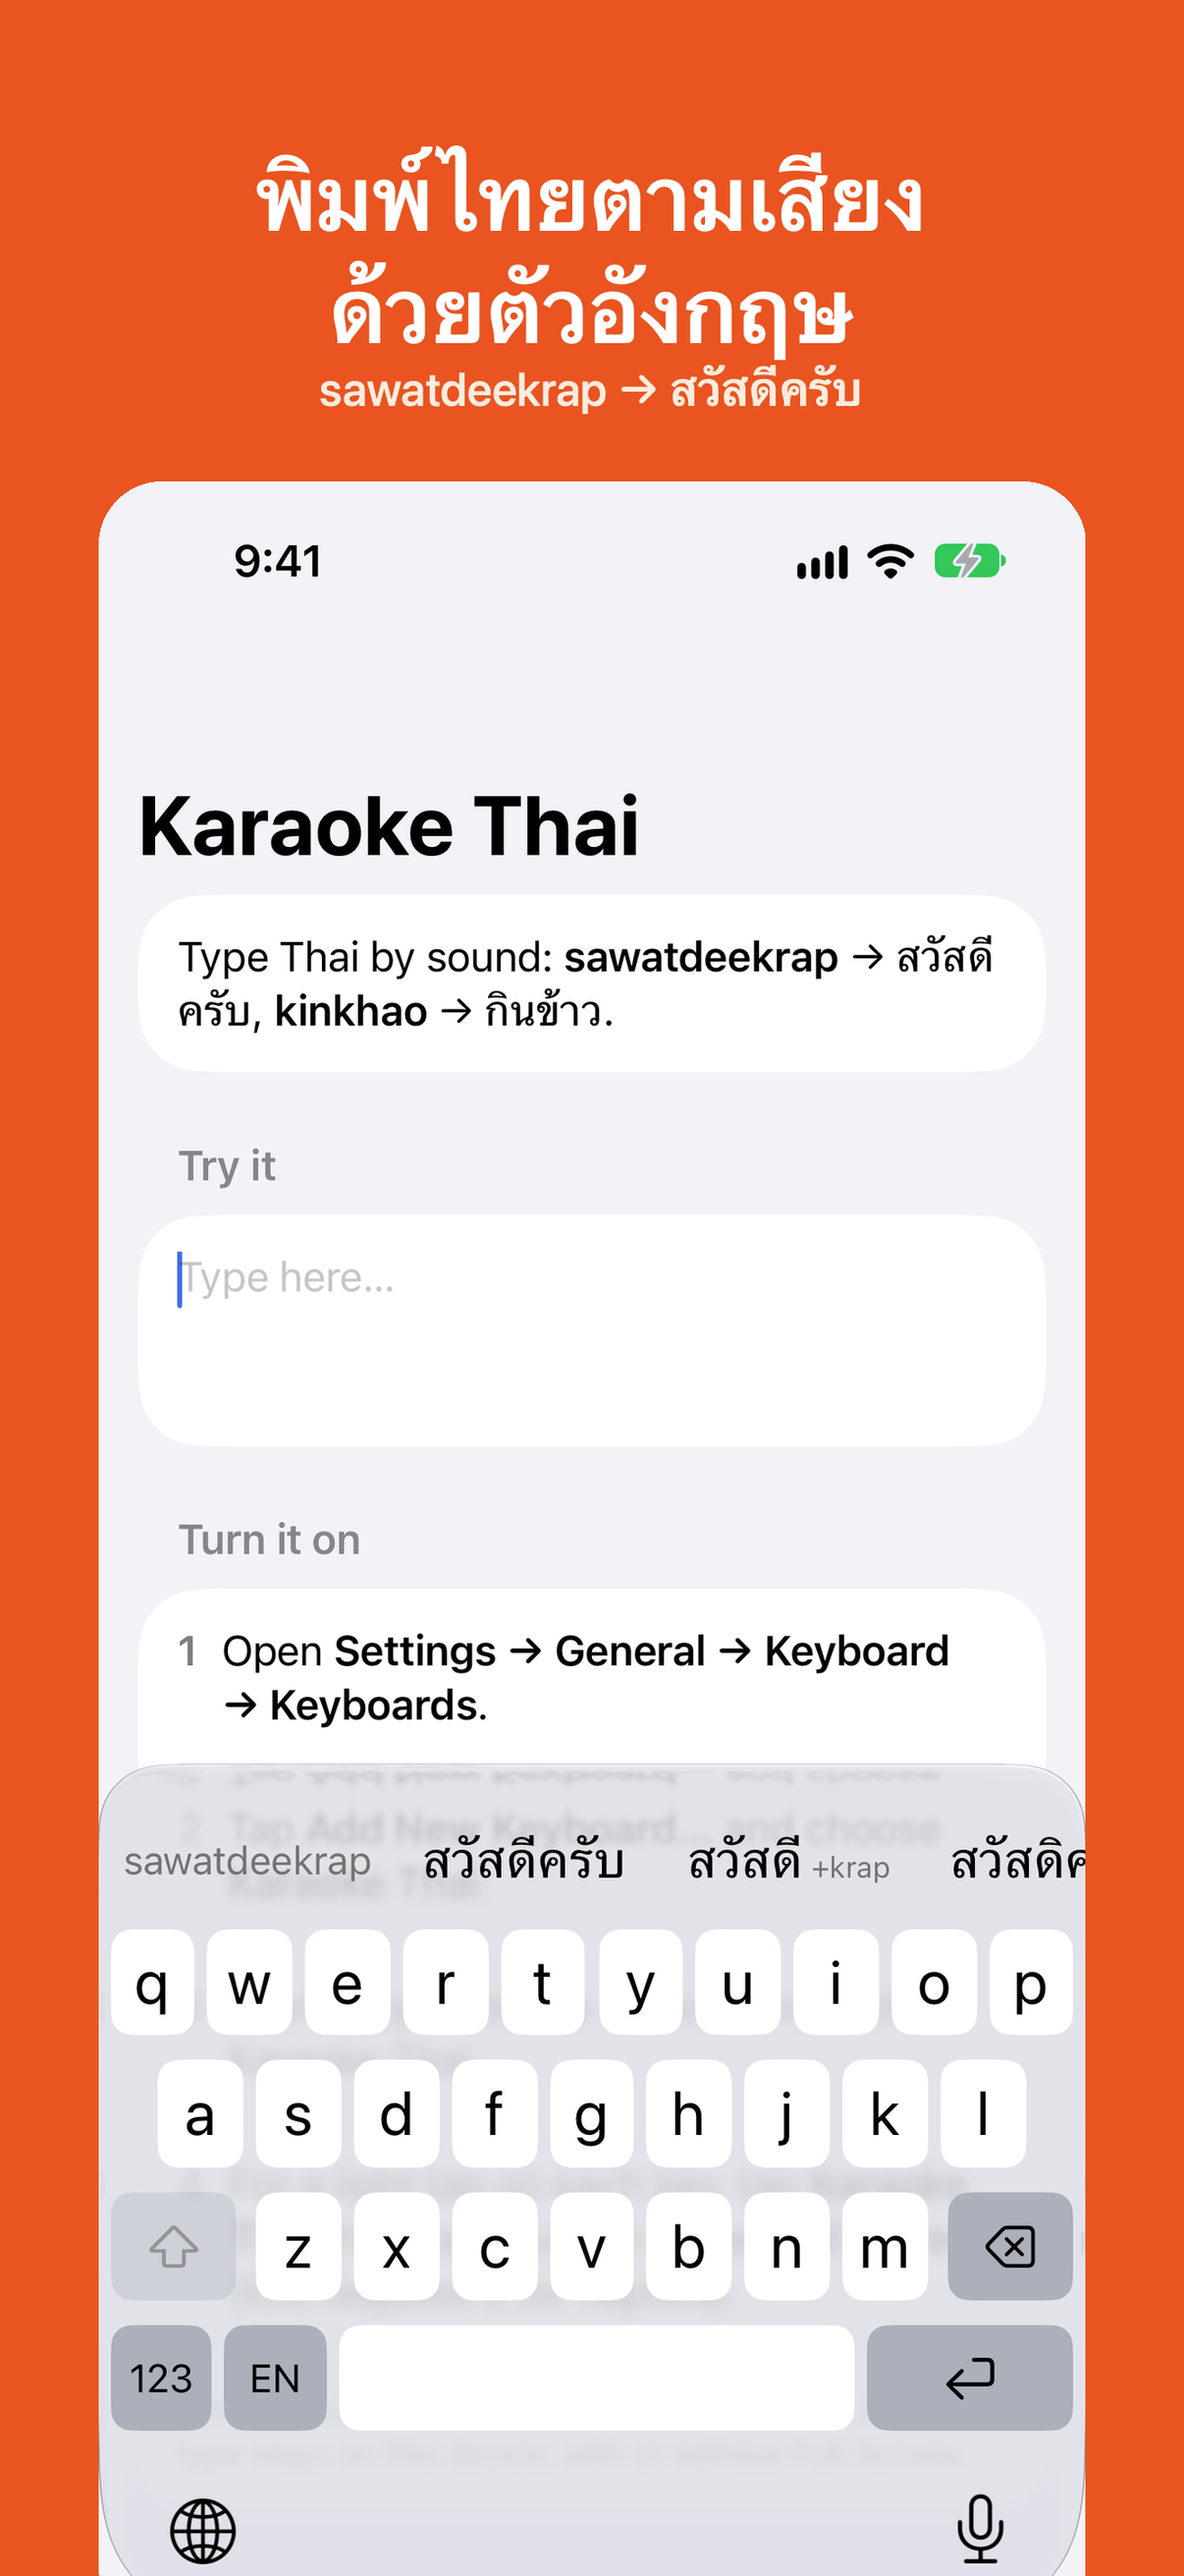
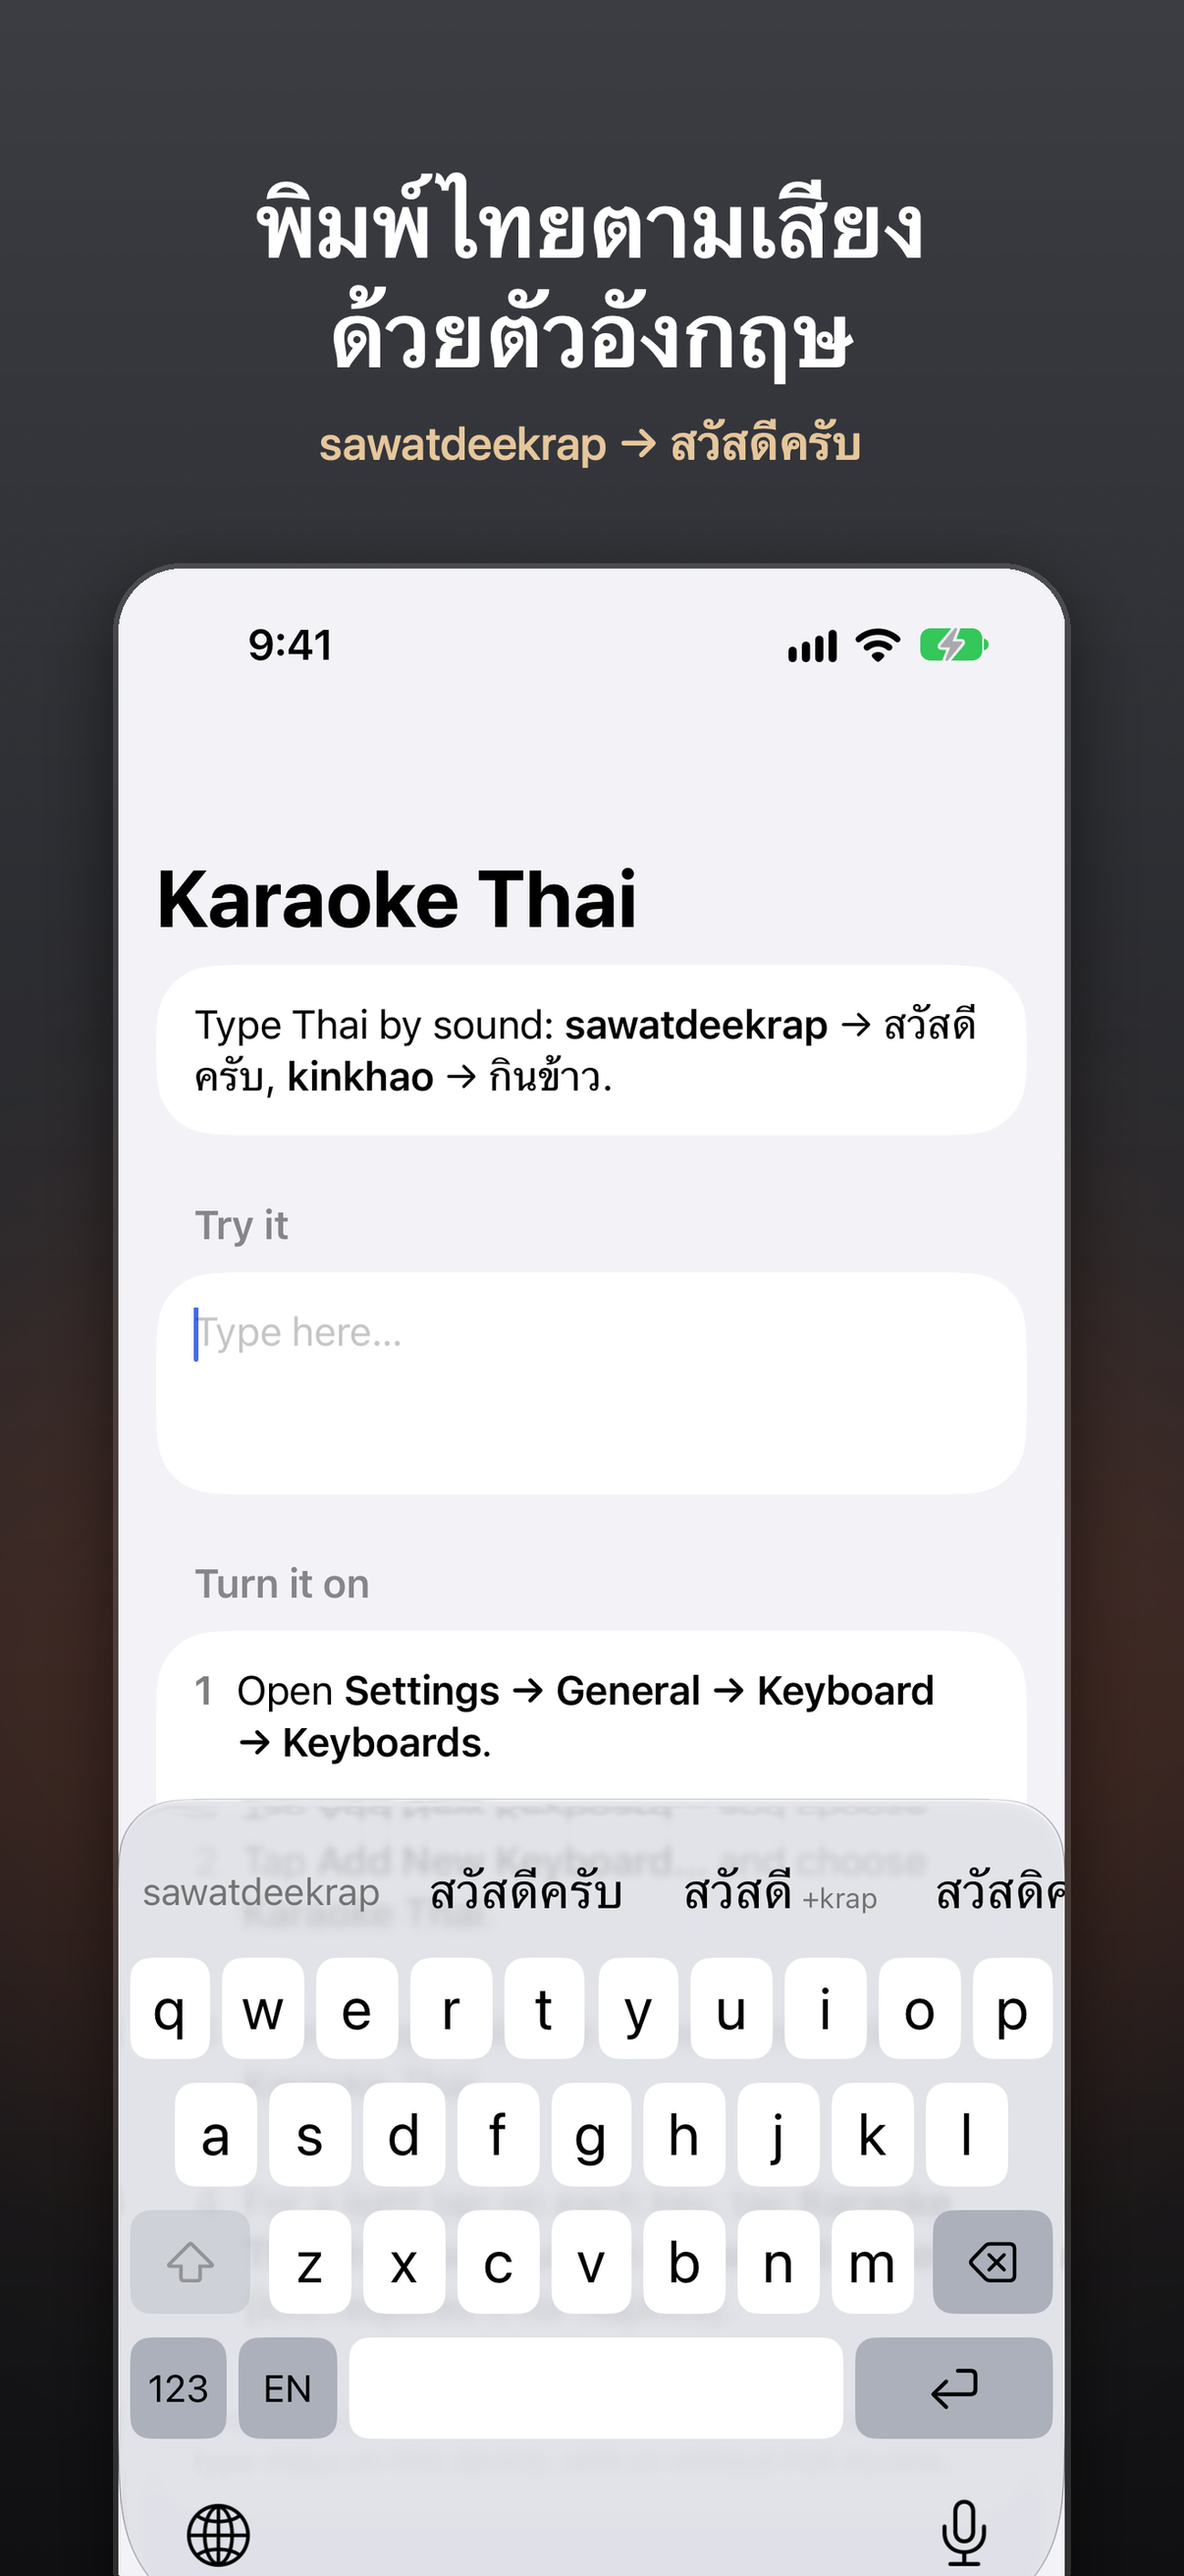
Store screenshots: graphite theme instead of orange
Dark, low-saturation graphite gradient with a faint warm glow in the icon's
orange behind the phone, white headlines, champagne-gold sublines, a soft
shadow under the phone and more room between headline and subline. Matches
the demo clip. Other looks stay available: caption_shots.py [graphite|
midnight|porcelain|orange]. The 6.3" iPhone set is now written by the script.

diff --git a/tools/caption_shots.py b/tools/caption_shots.py
@@ -1,20 +1,38 @@
 """Captioned App Store screenshots from the raw ones in ios/appstore/shots.
 
-Each shot gets a coloured band with a headline (App Store search reads screenshot text, so
-the headlines carry the main search words) above the raw screenshot in a rounded frame.
+Each shot gets a headline (App Store search reads screenshot text, so the headlines carry the
+main search words) above the raw screenshot in a rounded frame with a soft shadow.
 
-    python3 tools/caption_shots.py   ->  ios/appstore/shots/captioned/{en,th}/*.png
+The look is "graphite": a dark, low-saturation grey gradient (dark, muted colours read as
+premium and sophisticated; bright saturated ones as cheap and loud), a faint warm glow in the
+icon's orange behind the phone so the brand colour stays, white headlines and a champagne-gold
+subline (gold reads as quality, and in Thailand as royalty and temples). It matches the demo clip.
+Pure black and purple are avoided: both are mourning colours in Thailand.
+
+    python3 tools/caption_shots.py [theme]   ->  ios/appstore/shots/captioned/{en,th}/*.png
 """
 import subprocess
 import tempfile
 from pathlib import Path
-from PIL import Image, ImageDraw, ImageFont
+import sys
+from PIL import Image, ImageDraw, ImageFilter
 
 ROOT = Path(__file__).resolve().parent.parent
 SHOTS = ROOT / "ios/appstore/shots"
 OUT = SHOTS / "captioned"
 
-BG = (233, 84, 32)      # same orange as the app icon
+# top and bottom of the background gradient, the glow behind the phone, headline, subline
+THEMES = {
+    "graphite": dict(top=(58, 60, 66), bottom=(14, 14, 16), glow=(233, 84, 32), glow_alpha=52,
+                     head="FFFFFF", sub="E6C79C"),
+    "midnight": dict(top=(30, 40, 66), bottom=(8, 11, 22), glow=(214, 168, 96), glow_alpha=55,
+                     head="FFFFFF", sub="E6C79C"),
+    "porcelain": dict(top=(250, 248, 244), bottom=(232, 228, 220), glow=(233, 84, 32), glow_alpha=40,
+                      head="1C1C1E", sub="9A6B3A"),
+    "orange": dict(top=(233, 84, 32), bottom=(233, 84, 32), glow=(233, 84, 32), glow_alpha=0,
+                   head="FFFFFF", sub="FFECDE"),
+}
+THEME = THEMES["graphite"]
 RENDER = ROOT / "tools/render_text.swift"
 BIN = Path(tempfile.gettempdir()) / "karaoke_render_text"
 
@@ -53,21 +71,42 @@ def rounded(img, radius):
     return out
 
 
+def background(size, top_y):
+    """Vertical gradient, a soft glow behind the phone, and a little grain against banding."""
+    W, H = size
+    t = THEME
+    grad = Image.linear_gradient("L").resize((W, H))
+    canvas = Image.composite(Image.new("RGB", size, t["bottom"]), Image.new("RGB", size, t["top"]), grad)
+    if t["glow_alpha"]:
+        glow = Image.new("L", (W, H), 0)
+        r = int(W * 0.5)
+        cx, cy = W // 2, top_y + int((H - top_y) * 0.55)  # behind the phone: a halo at its edges
+        ImageDraw.Draw(glow).ellipse([cx - r, cy - r, cx + r, cy + r], fill=t["glow_alpha"])
+        glow = glow.filter(ImageFilter.GaussianBlur(W * 0.12))
+        canvas = Image.composite(Image.new("RGB", size, t["glow"]), canvas, glow)
+    noise = Image.effect_noise((W, H), 6).convert("RGB")
+    return Image.blend(canvas, noise, 0.025)
+
+
 def make(raw, size, head, sub):
     W, H = size
-    canvas = Image.new("RGB", size, BG)
     scale = W / 1320
     head_size, sub_size = int(100 * scale), int(52 * scale)
     if W > 1500:  # iPad: wider canvas, same visual weight
         head_size, sub_size = int(66 * scale), int(36 * scale)
-    y = int(120 * scale)
-    for line in head.split("\n"):
-        img = text_image(line, head_size, True, "FFFFFF")
-        canvas.paste(img, ((W - img.width) // 2, y), img)
-        y += int(head_size * 1.25)
-    img = text_image(sub, sub_size, False, "FFECDE")
-    canvas.paste(img, ((W - img.width) // 2, y + int(10 * scale)), img)
-    top = y + int(sub_size * 3.2)
+    lines = [text_image(line, head_size, True, THEME["head"]) for line in head.split("\n")]
+    sub_img = text_image(sub, sub_size, False, THEME["sub"])
+    y = int(150 * scale)
+    heights = []
+    for img in lines:
+        heights.append(y)
+        y += int(head_size * 1.22)
+    sub_y = y + int(46 * scale)
+    top = sub_y + sub_img.height + int(90 * scale)
+    canvas = background(size, top)
+    for img, hy in zip(lines, heights):
+        canvas.paste(img, ((W - img.width) // 2, hy), img)
+    canvas.paste(sub_img, ((W - sub_img.width) // 2, sub_y), sub_img)
 
     shot = Image.open(SHOTS / raw).convert("RGB")
     room_h = H - top + int(60 * scale)  # let the phone run off the bottom edge a little
@@ -75,18 +114,38 @@ def make(raw, size, head, sub):
     k = min(room_w / shot.width, room_h / shot.height)
     shot = shot.resize((int(shot.width * k), int(shot.height * k)), Image.LANCZOS)
     frame = rounded(shot, int(70 * scale))
-    canvas.paste(frame, ((W - frame.width) // 2, top), frame)
+    x = (W - frame.width) // 2
+    # soft drop shadow, then a hairline edge so the phone lifts off the background
+    shadow = Image.new("L", size, 0)
+    ImageDraw.Draw(shadow).rounded_rectangle([x, top + int(24 * scale), x + frame.width, top + frame.height + int(24 * scale)],
+                                             int(70 * scale), fill=150)
+    shadow = shadow.filter(ImageFilter.GaussianBlur(40 * scale))
+    canvas = Image.composite(Image.new("RGB", size, (0, 0, 0)), canvas, shadow)
+    edge = Image.new("RGBA", size, (0, 0, 0, 0))
+    pad = int(6 * scale)
+    ImageDraw.Draw(edge).rounded_rectangle([x - pad, top - pad, x + frame.width + pad, top + frame.height + pad],
+                                           int(70 * scale) + pad, fill=(255, 255, 255, 38))
+    canvas.paste(edge, (0, 0), edge)
+    canvas.paste(frame, (x, top), frame)
     return canvas
 
 
 def main():
+    global THEME
+    name = sys.argv[1] if len(sys.argv) > 1 else "graphite"
+    THEME = THEMES[name]
+    out = OUT if len(sys.argv) < 3 else Path(sys.argv[2])
     for lang, items in SETS.items():
-        (OUT / lang).mkdir(parents=True, exist_ok=True)
+        (out / lang).mkdir(parents=True, exist_ok=True)
         for i, (raw, size, head, sub) in enumerate(items, 1):
-            kind = "ipad_13" if size[0] > 1500 else "iphone_6.9"
-            path = OUT / lang / f"{kind}_{i}.png"
-            make(raw, size, head, sub).save(path)
-            print(path.relative_to(ROOT))
+            img = make(raw, size, head, sub)
+            if size[0] > 1500:
+                paths = [(out / lang / f"ipad_13_{i}.png", None)]
+            else:  # 6.9" and 6.3" iPhones (same shape)
+                paths = [(out / lang / f"iphone_6.9_{i}.png", None), (out / lang / f"iphone_6.3_{i}.png", (1206, 2622))]
+            for path, resize in paths:
+                (img.resize(resize, Image.LANCZOS) if resize else img).save(path)
+                print(path)
 
 
 if __name__ == "__main__":
